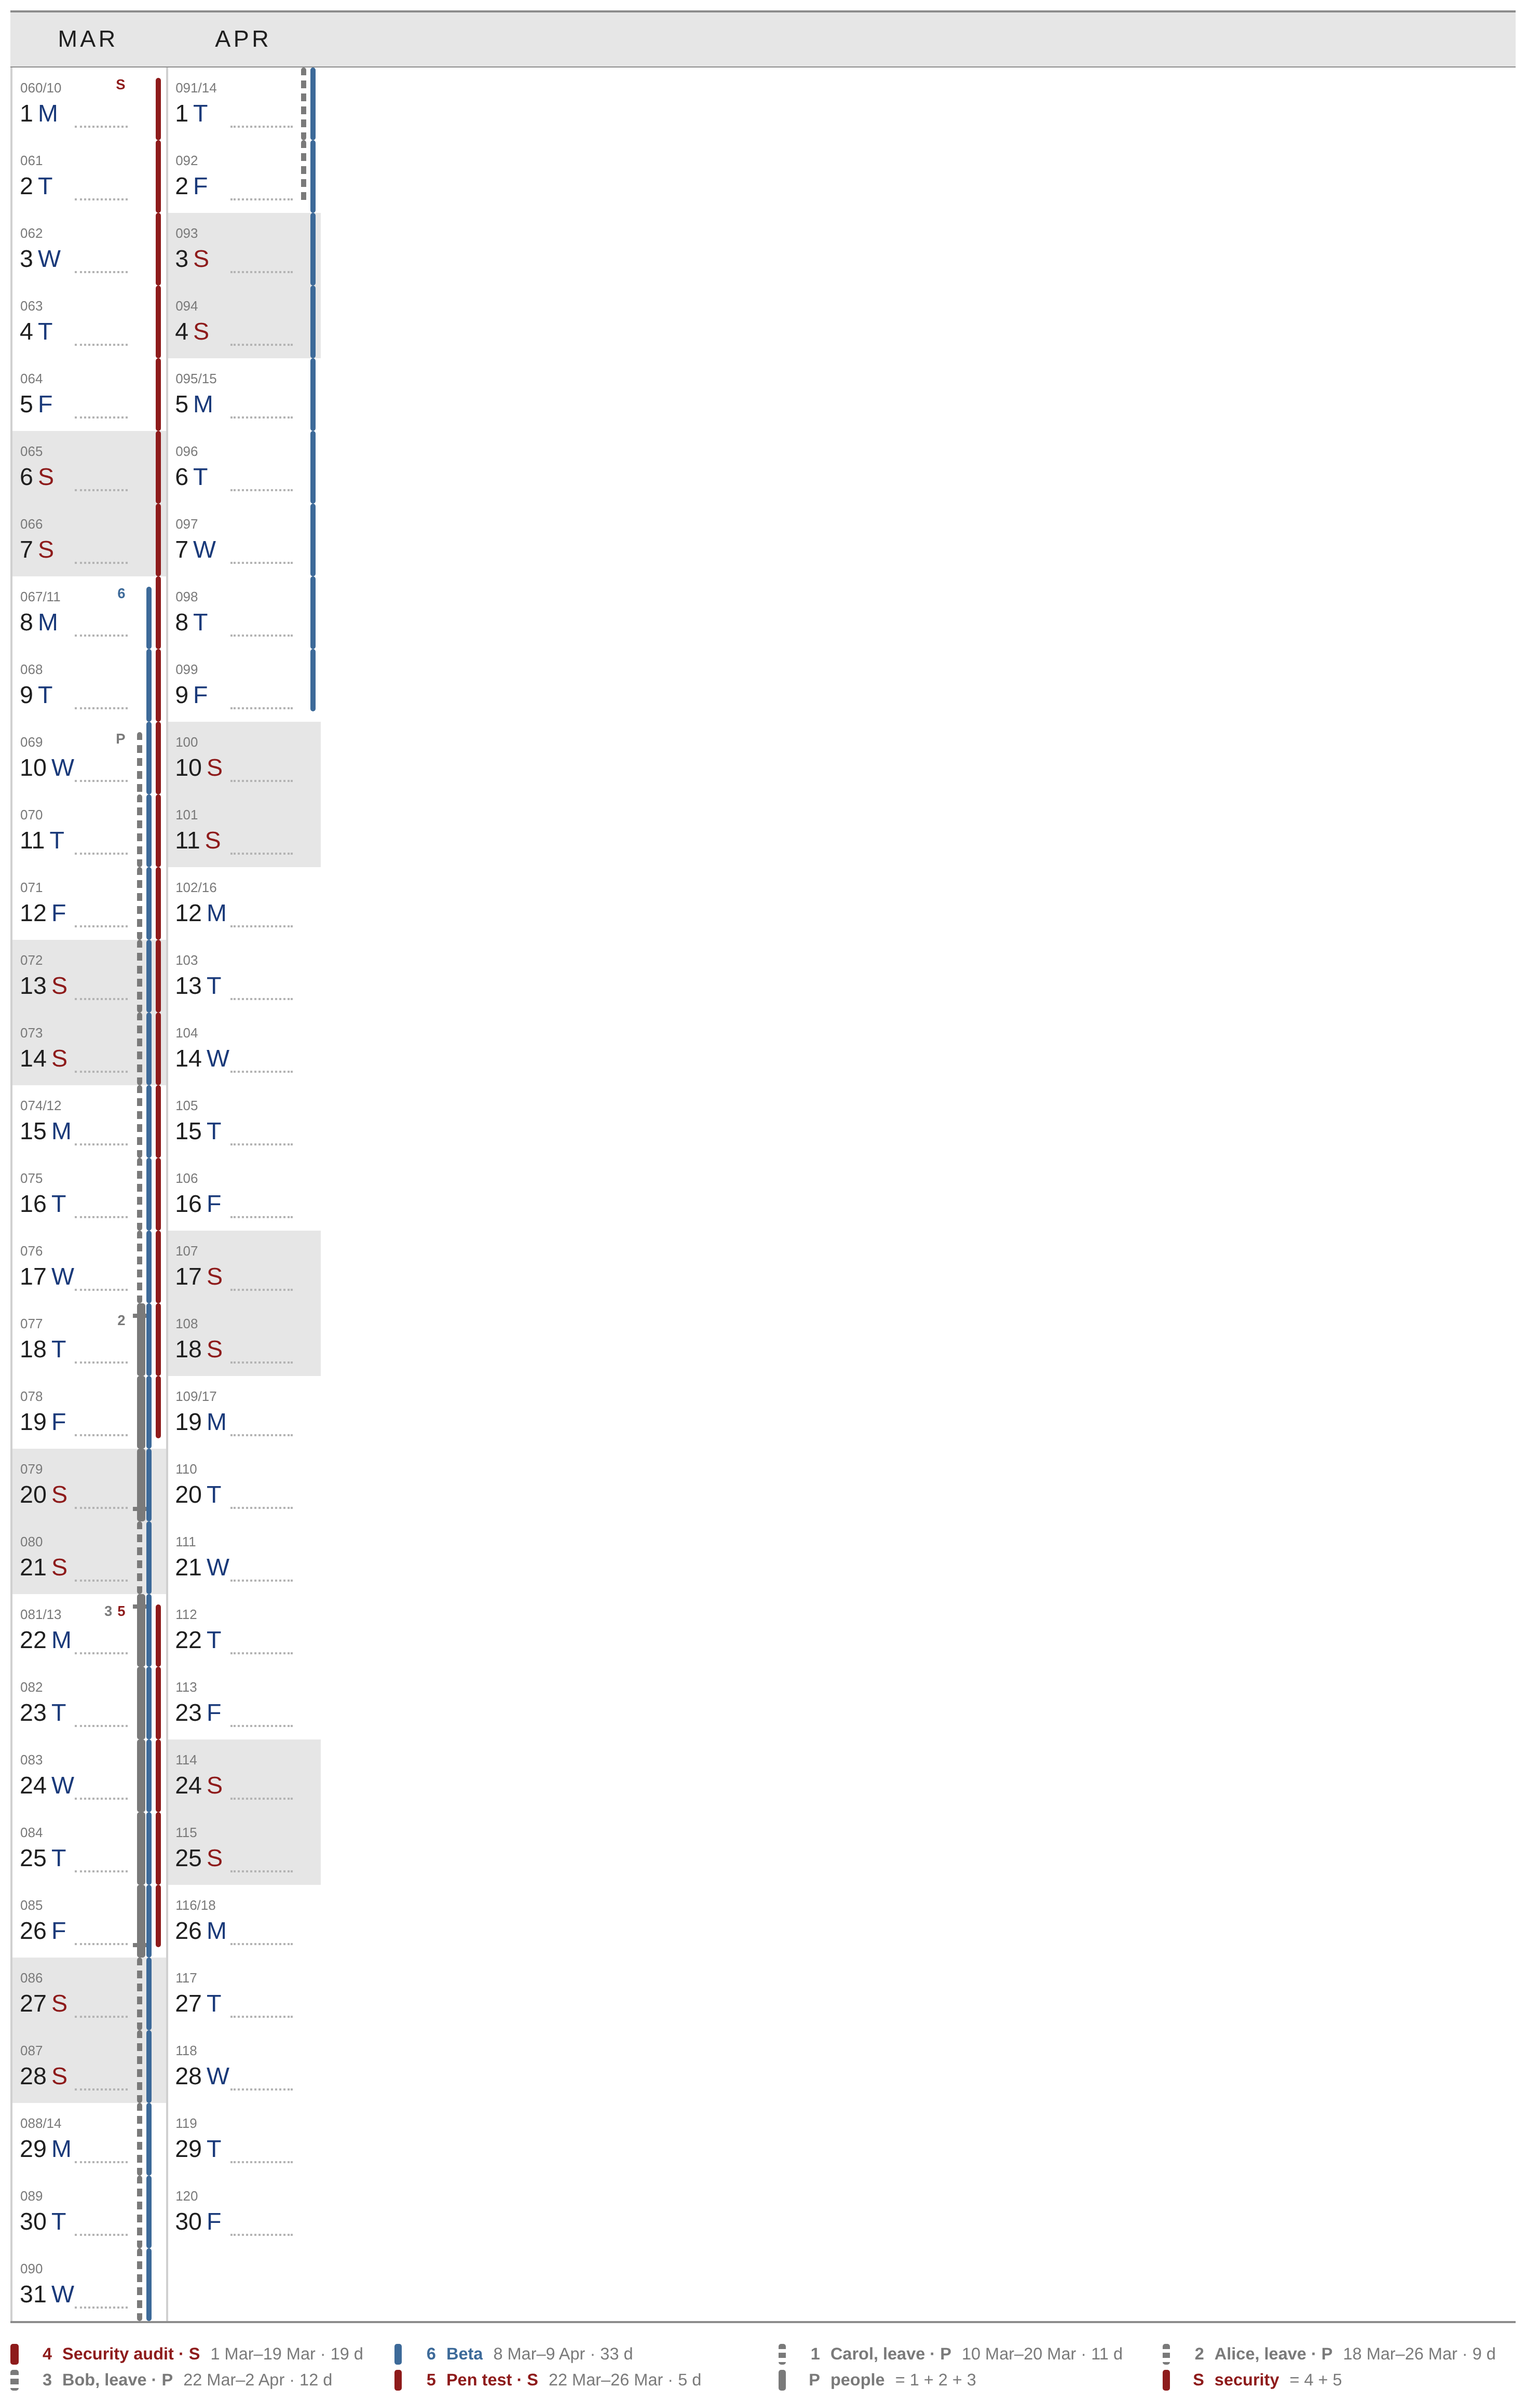
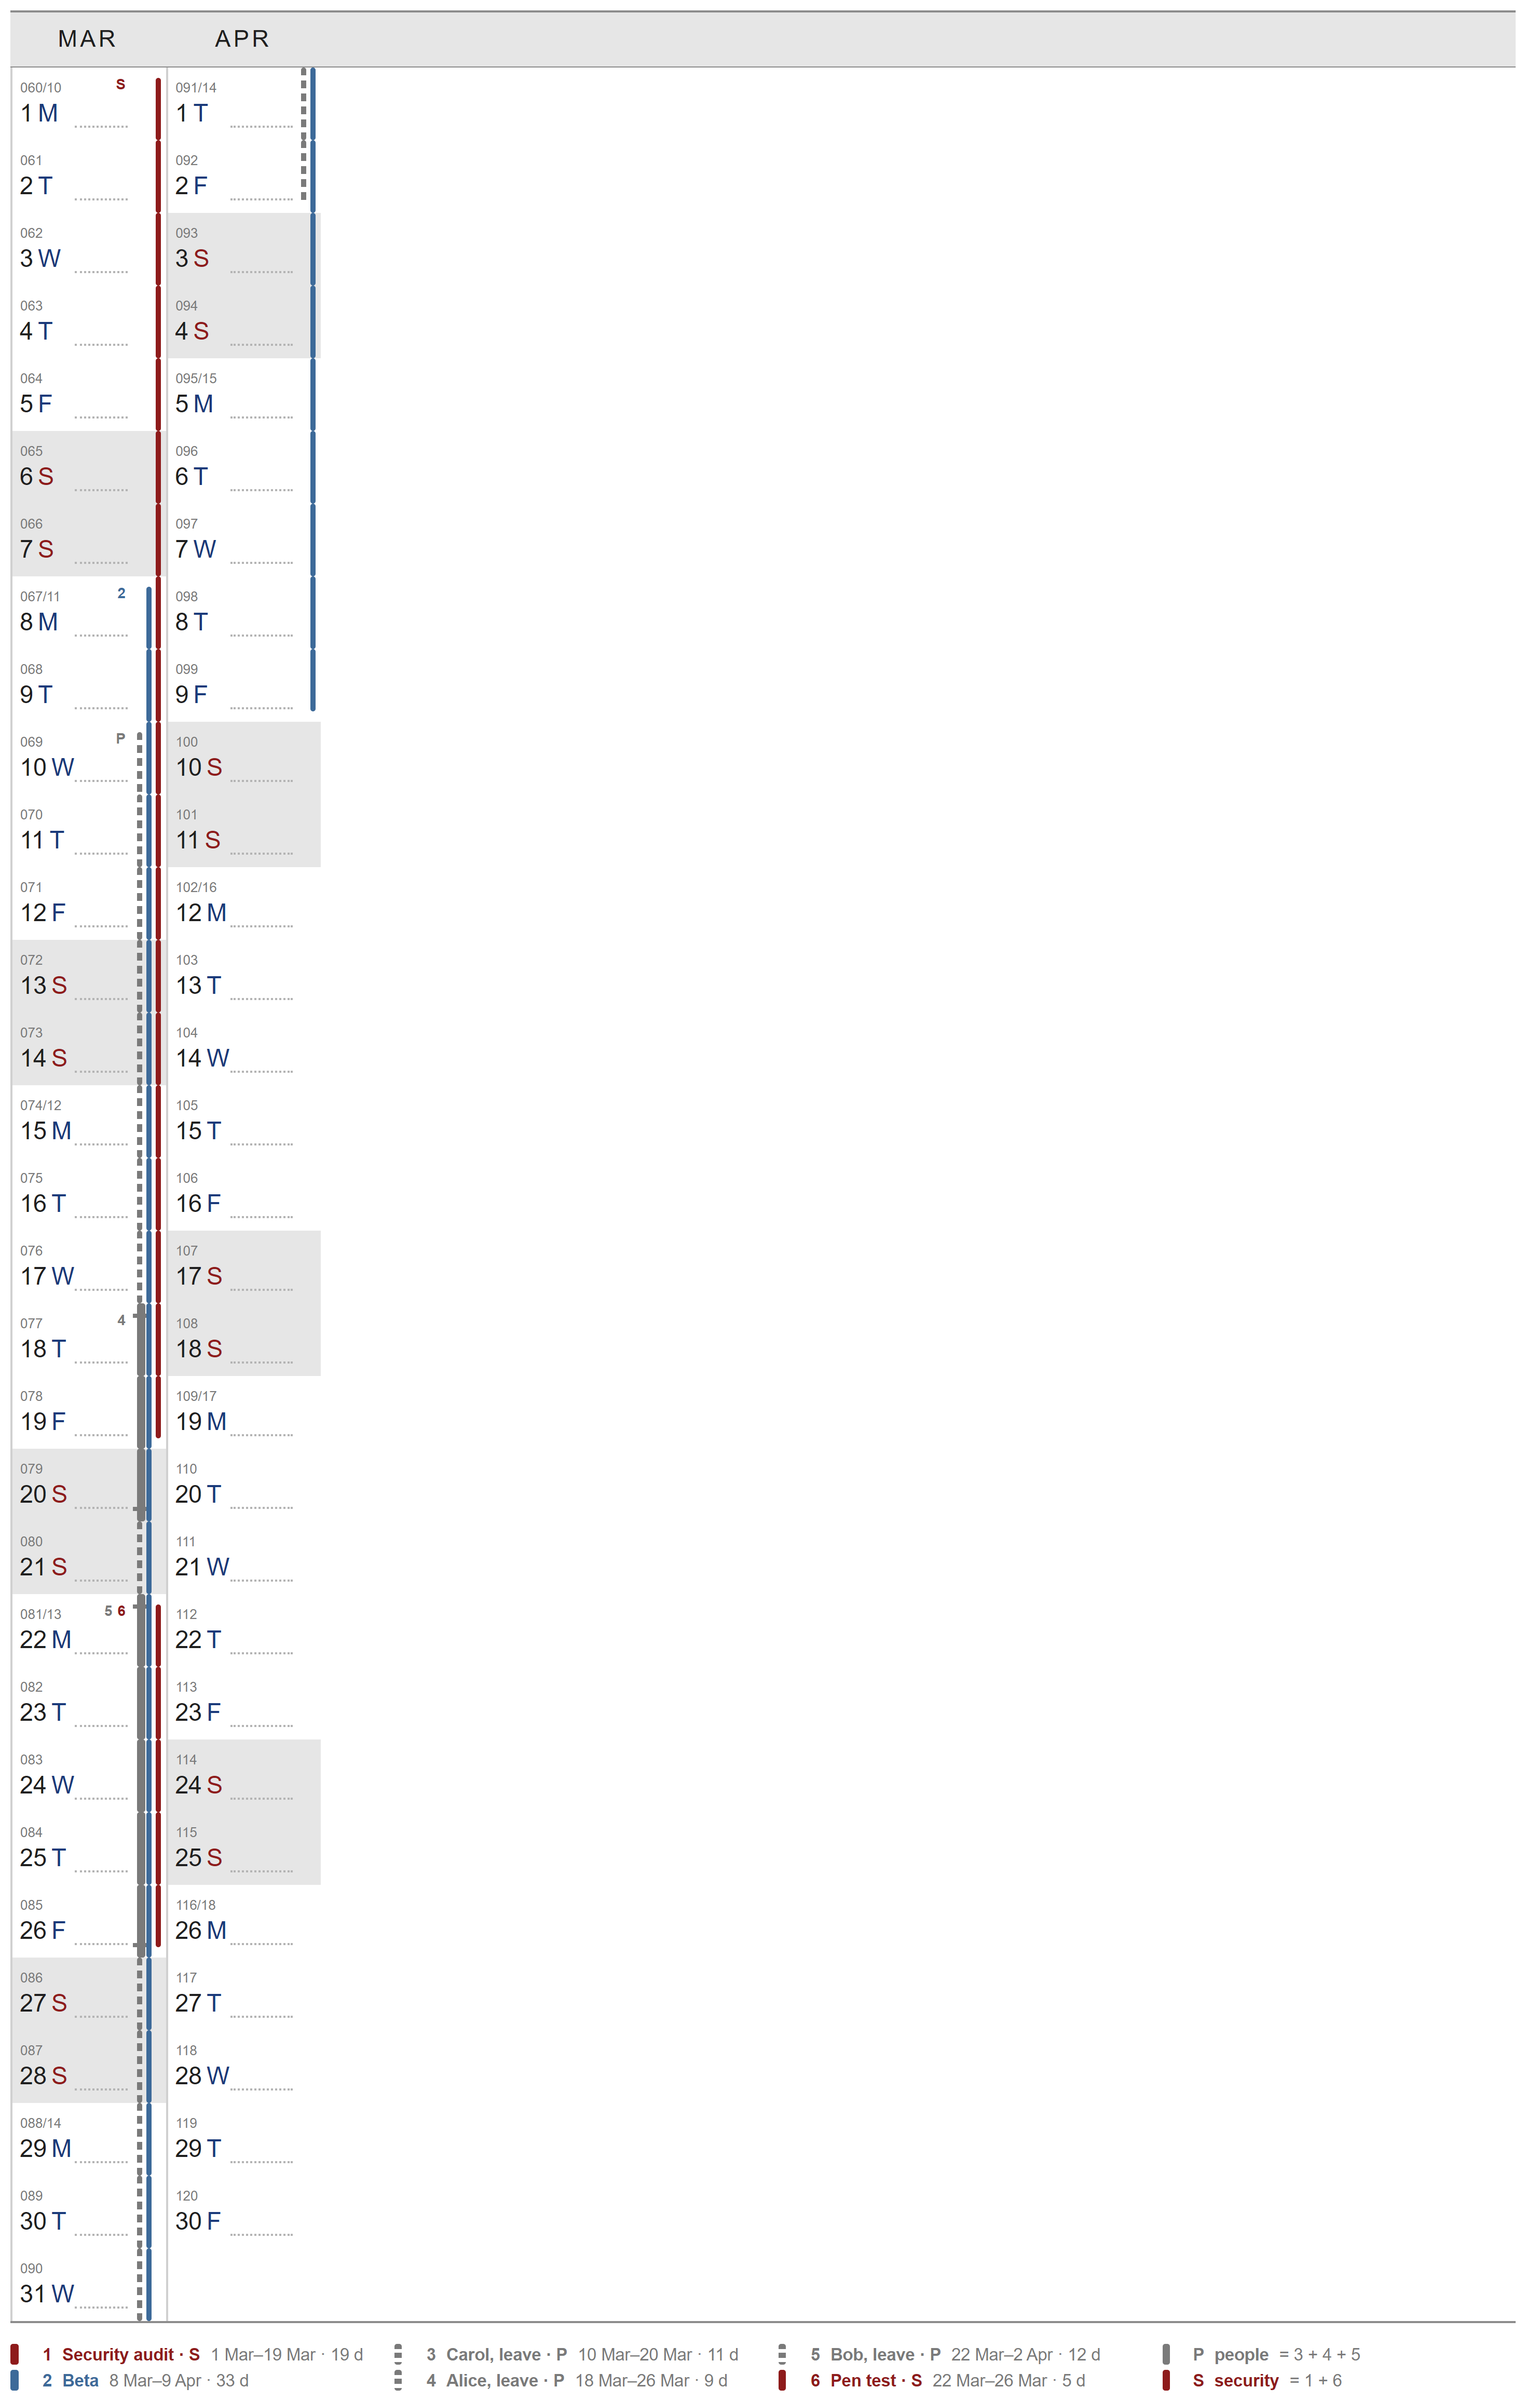
Prepare the 1.0.0 docs: column-wise legend pictures, release-note fixes
Design pictures with a legend or renumbered keys are re-rendered (render.py now uses the installed Edge); DSL spec examples no longer put # comments after a declaration; the README keys table shows length has no default; the archive README links to GitHub; release notes tidied for 1.0.0.

diff --git a/docs/timeline/reference/render.py b/docs/timeline/reference/render.py
@@ -59,7 +59,7 @@ EXAMPLES = [
 
 def main(only=None):
     with sync_playwright() as p:
-        b = p.chromium.launch()
+        b = p.chromium.launch(channel="msedge")  # the installed Edge: no browser download
         pg = b.new_page(device_scale_factor=2, viewport=dict(width=2400, height=2400))
         pg.goto((ROOT / "harness.html").as_uri())
         for ex in EXAMPLES:

diff --git a/Release-Notes.md b/Release-Notes.md
@@ -1,7 +1,7 @@
 # Release notes
 
-Versions follow [Semantic Versioning](DEV.md#versioning). While the version is `0.x`, a
-MINOR release may change behaviour you rely on, and says so under **Changed**.
+Versions follow [Semantic Versioning](DEV.md#versioning). Since 1.0.0, only a MAJOR release
+changes behaviour you rely on, and says so under **Changed**.
 
 Each release has a section headed by its bare version (`## 0.1.0`). The release workflow
 publishes that section as the GitHub release text, and refuses a tag whose version has none.
@@ -25,8 +25,8 @@ Pin it.*
     interval may be a single day (`2027-11-17/2027-11-17`), drawn one cell long.
   - Milestones: a mark (diamond, star, dot, or a ring around the day number), a title on
     the note line, and an optional countdown.
-  - Intervals: colored rails at the right edge of the cells, solid, dashed or hatched,
-    labeled or numbered; margin lines for background spans; merged groups on crowded
+  - Intervals: coloured rails at the right edge of the cells, solid, dashed or hatched,
+    labelled or numbered; margin lines for background spans; merged groups on crowded
     pages; an overflow rail with `+N` when a column is full.
   - A legend under the grid, in date order and read column by column; interval keys are
     numbered in that order. The rows give up the room it needs. The footer names the
@@ -34,7 +34,7 @@ Pin it.*
   - Options: `--timeline-layout packed|flow`, `--timeline-compact daily|weekly`,
     `--timeline-lanes`, `--timeline-groups auto|merge|separate`, `--timeline-legend full|off`.
   - Errors in declarations stop the run with one `file:line: message` per problem (exit 2).
-- Without milestones or intervals the page is exactly as before.
+  - Without milestones or intervals the page is exactly as before.
 - **`--end` and `--until`** give the period by its last day, or the day after it, instead of
   `--period`. The title and file name follow the shortest matching length
   (`--end 2027-06-30` from 1 January: `6-MONTH CALENDAR`, `calendar_2027-01-01_6m.pdf`).

diff --git a/docs/timeline/date-dsl-specification.md b/docs/timeline/date-dsl-specification.md
@@ -154,11 +154,17 @@ The same duration notation applies to intervals, relative date offsets, and recu
 Examples:
 
 ```
-@release-2m     # Two months before release
-@release/2m     # Interval lasting two months
-2m/@release     # Interval of two months ending on release day
-2m/<@release    # Interval of two months ending the day before release
+# Two months before release
+@release-2m
+# Interval lasting two months
+@release/2m
+# Interval of two months ending on release day
+2m/@release
+# Interval of two months ending the day before release
+2m/<@release
 ```
+
+A comment takes a line of its own (§9): `#` after a declaration is not a comment.
 
 A duration term is a strictly positive integer followed by one unit. In an interval a duration may have several terms (`1m+13d`, `1m-1d`, `1m2w`; §12); in `every=` and `gap=` it has exactly one.
 
@@ -179,12 +185,16 @@ Examples:
 
 ```
 qa       = 2027-03-01/2027-03-14
-qa_done  = @qa.end; title="QA done"           # 2027-03-14, the last day of qa
-followup = @qa.end+1d/1w                       # 2027-03-15 to 2027-03-21, right after qa
+# 2027-03-14, the last day of qa
+qa_done  = @qa.end; title="QA done"
+# 2027-03-15 to 2027-03-21, right after qa
+followup = @qa.end+1d/1w
 review   = 2027-01-04; every=1w; count=8
-last     = @review[-1]                         # 2027-02-22
+# 2027-02-22
+last     = @review[-1]
 labs     = 2027-01-11/2d; gap=1w; count=6
-lab3     = @labs[3].start                      # 2027-01-29
+# 2027-01-29
+lab3     = @labs[3].start
 ```
 
 Rules:

diff --git a/go/README.md b/go/README.md
@@ -1,7 +1,8 @@
 # PinPlan: download, run, build
 
 A standalone binary for Windows and Linux. It needs no libraries and no installation. The
-page and every option are described in the [main README](../README.md).
+page, every option and the date language of `.dates` files are described in the
+[main README](https://github.com/skrymets/pinplan#readme).
 
 ## Download
 
@@ -35,6 +36,7 @@ sha256sum -c pinplan-1.0.0-linux-amd64.tar.gz.sha256
 ```powershell
 .\pinplan.exe --start 2027-01-01          # -> calendar_2027-01-01.pdf
 .\pinplan.exe --start 2026-11-07 --period 90d -o q4.pdf
+.\pinplan.exe plan.dates                  # milestones and intervals from a .dates file
 ```
 
 ```sh
@@ -98,4 +100,4 @@ go -C go build -ldflags "-X main.version=$(cat VERSION)" -o pinplan ./cmd/pinpla
 ```
 
 Tests and the release procedure are in
-[DEV.md](../DEV.md).
+[DEV.md](https://github.com/skrymets/pinplan/blob/develop/DEV.md).

diff --git a/README.md b/README.md
@@ -225,7 +225,7 @@ ignored:
 | `countdown` | `1`–`99` | milestone | `T–7` … `T–1` on the days before (wide columns only) |
 | `style` | `solid`, `dashed`, `hatch` | interval | `hatch`: hatched cells instead of a rail |
 | `status` | `confirmed`, `tentative` | both | `tentative`: dashed rail and ` ?` after the title |
-| `length` | `days`, `workdays` | interval | adds ` · 14 d` or ` · 10 wd` (workdays skip `--weekend`) |
+| `length` | *(none)*, `days`, `workdays` | interval | adds ` · 14 d` or ` · 10 wd` (workdays skip `--weekend`) |
 | `layer` | `front`, `back` | interval | `back`: a thin line beside the day label, no rail |
 | `priority` | `normal`, `high`, `low` | interval | who gets a rail first when a column is full |
 | `group` | a name | interval | members share one rail on crowded pages (`--timeline-groups`) |
